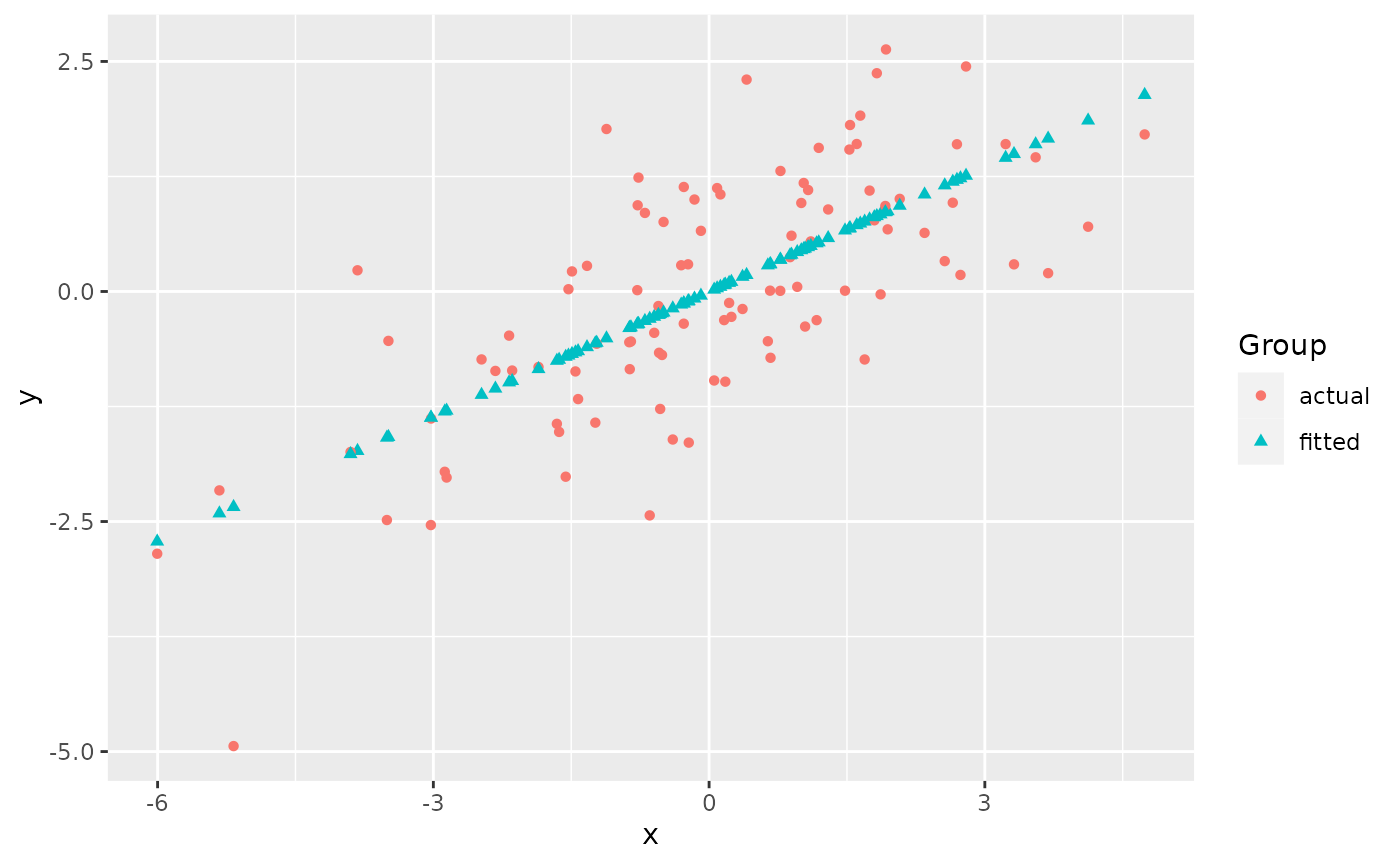
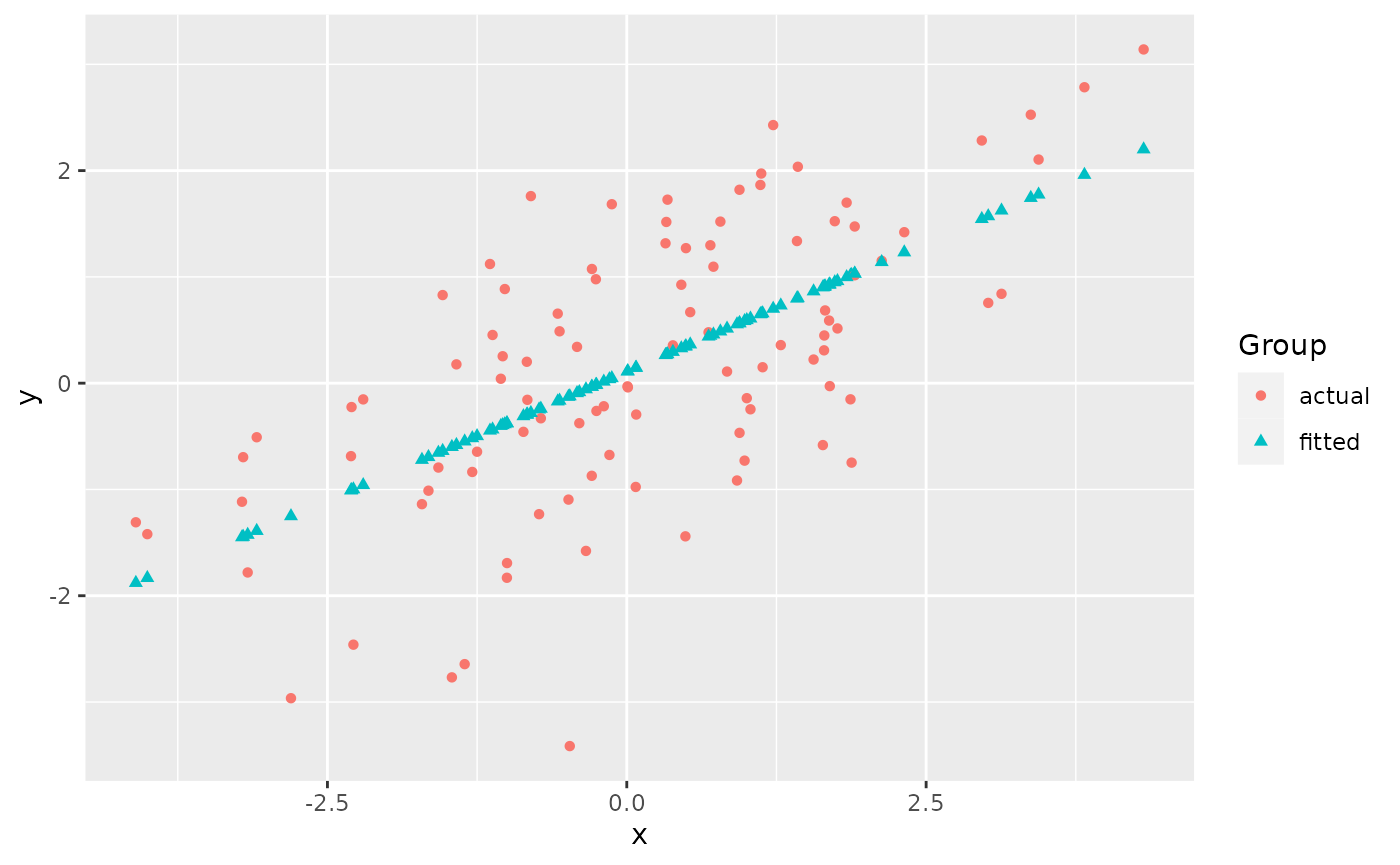
Built site for ggmatplot: 0.1.0.9000@9dd3aaa

diff --git a/articles/ggmatplot.html b/articles/ggmatplot.html
@@ -103,7 +103,7 @@
 <span class="va">x</span> <span class="op">&lt;-</span> <span class="fu"><a href="https://rdrr.io/r/base/c.html" class="external-link">c</a></span><span class="op">(</span><span class="fu"><a href="https://rdrr.io/r/stats/Normal.html" class="external-link">rnorm</a></span><span class="op">(</span><span class="fl">100</span>, sd <span class="op">=</span> <span class="fl">2</span><span class="op">)</span><span class="op">)</span>
 
 <span class="fu"><a href="https://rdrr.io/r/utils/head.html" class="external-link">head</a></span><span class="op">(</span><span class="va">x</span><span class="op">)</span>
-<span class="co">#&gt; [1] -2.8558348 -0.8684935  3.3173135  2.7954185 -0.3950892  1.1929919</span>
+<span class="co">#&gt; [1] -0.2924871 -3.1660462  3.3740307  1.9036447 -1.4227960  1.1344474</span>
 
 <span class="co"># matrix z</span>
 <span class="va">y</span> <span class="op">&lt;-</span> <span class="va">x</span> <span class="op">*</span> <span class="fl">0.5</span> <span class="op">+</span> <span class="fu"><a href="https://rdrr.io/r/stats/Normal.html" class="external-link">rnorm</a></span><span class="op">(</span><span class="fl">100</span>, sd <span class="op">=</span> <span class="fl">1</span><span class="op">)</span>
@@ -112,13 +112,13 @@
            fitted <span class="op">=</span> <span class="va">fit.y</span><span class="op">)</span>
 
 <span class="fu"><a href="https://rdrr.io/r/utils/head.html" class="external-link">head</a></span><span class="op">(</span><span class="va">z</span><span class="op">)</span>
-<span class="co">#&gt;       actual     fitted</span>
-<span class="co">#&gt; 1 -2.0218952 -1.2947201</span>
-<span class="co">#&gt; 2 -0.5517613 -0.3969082</span>
-<span class="co">#&gt; 3  0.2948347  1.4940941</span>
-<span class="co">#&gt; 4  2.4453057  1.2583201</span>
-<span class="co">#&gt; 5 -1.6086475 -0.1830406</span>
-<span class="co">#&gt; 6  1.5608308  0.5343993</span></code></pre></div>
+<span class="co">#&gt;       actual      fitted</span>
+<span class="co">#&gt; 1 -0.8715769 -0.03377776</span>
+<span class="co">#&gt; 2 -1.7811087 -1.42652362</span>
+<span class="co">#&gt; 3  2.5259747  1.74329638</span>
+<span class="co">#&gt; 4  1.4741573  1.03063520</span>
+<span class="co">#&gt; 5  0.1769581 -0.58161164</span>
+<span class="co">#&gt; 6  0.1499069  0.65782353</span></code></pre></div>
 <p><code>ggmatplot</code> plots vector <code>x</code> against each column of matrix <code>z</code> using the default <code>plot_type = "point"</code>. This will be represented on the resulting plot as two groups, identified using different shapes and colors.</p>
 <div class="sourceCode" id="cb2"><pre class="downlit sourceCode r">
 <code class="sourceCode R"><span class="kw"><a href="https://rdrr.io/r/base/library.html" class="external-link">library</a></span><span class="op">(</span><span class="va"><a href="https://github.com/xuan-liang/ggmatplot" class="external-link">ggmatplot</a></span><span class="op">)</span>
